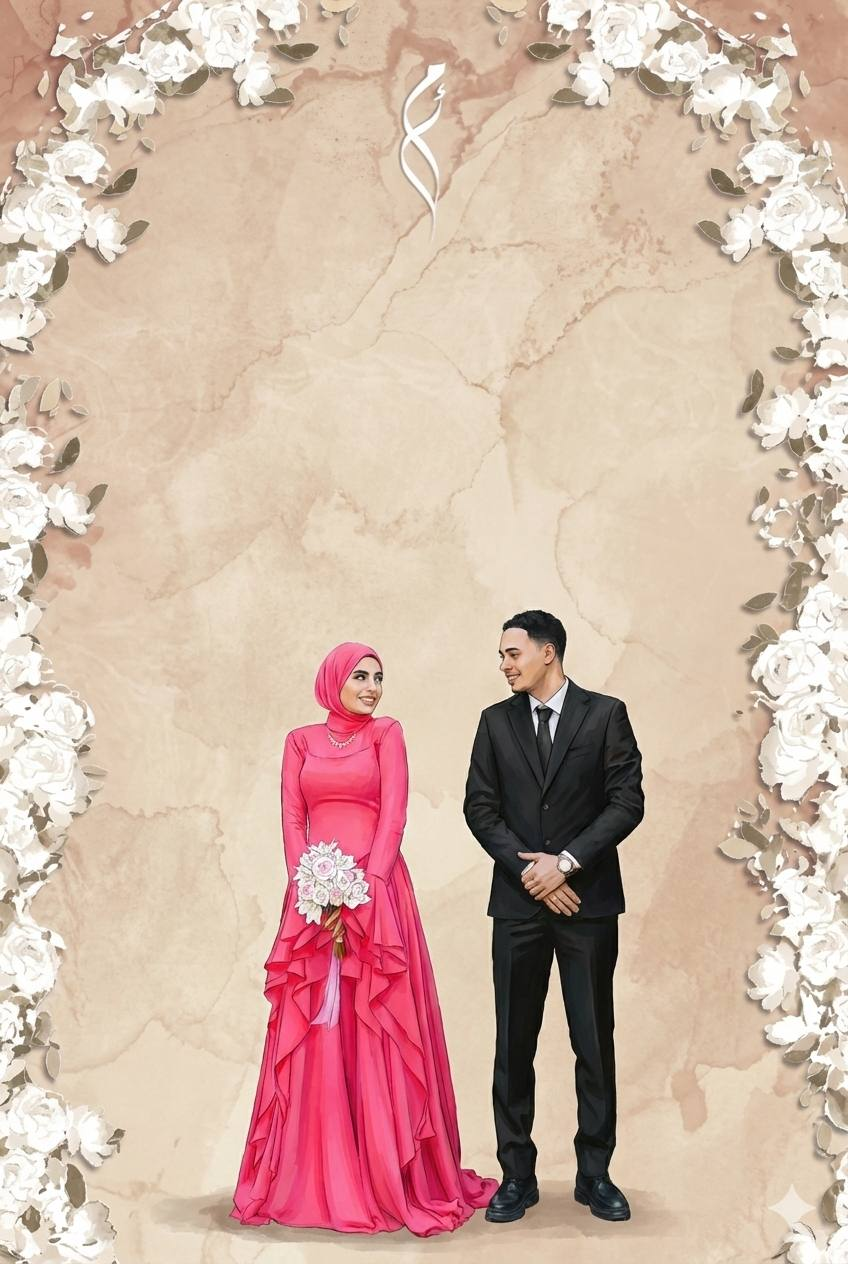
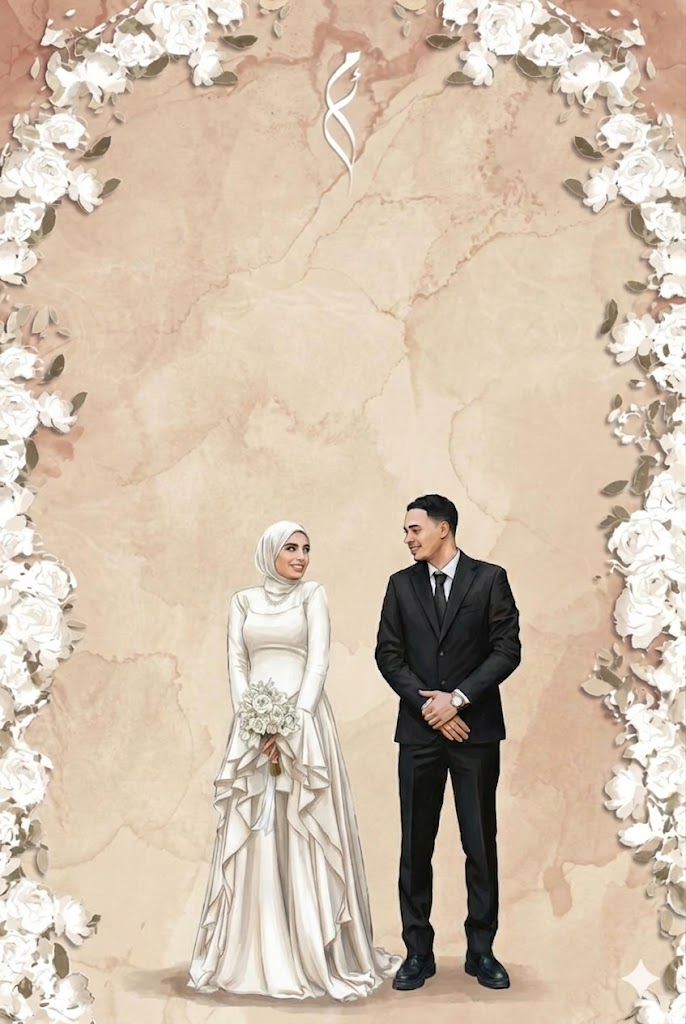
Update couple photo and make story times more visible (opacity 30 → 90)

Changed region(s): [[0.2755, 0.5, 0.5816, 1.0]]

diff --git a/components/Story/Story.tsx b/components/Story/Story.tsx
@@ -191,10 +191,10 @@ export default function Story() {
                                 item.alignment === "right" ? "text-right" : "text-left"
                             )}>
                                 <div className="flex flex-col gap-0 mb-4">
-                                    <span className="text-wedding-gold font-great-victorian text-3xl md:text-6xl opacity-30 block">
+                                    <span className="text-wedding-gold font-great-victorian text-3xl md:text-6xl opacity-90 block">
                                         {item.year}
                                     </span>
-                                    <span className="text-wedding-gold font-amiri text-2xl md:text-4xl opacity-30 block">
+                                    <span className="text-wedding-gold font-amiri text-2xl md:text-4xl opacity-80 block">
                                         {item.yearAr}
                                     </span>
                                 </div>
